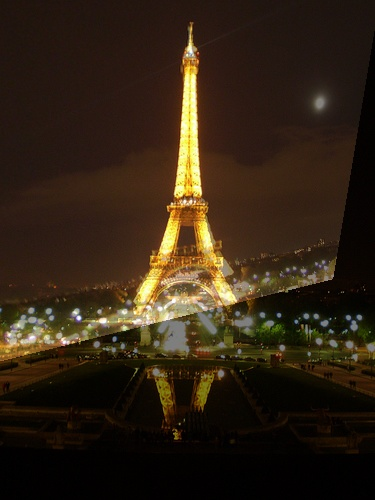
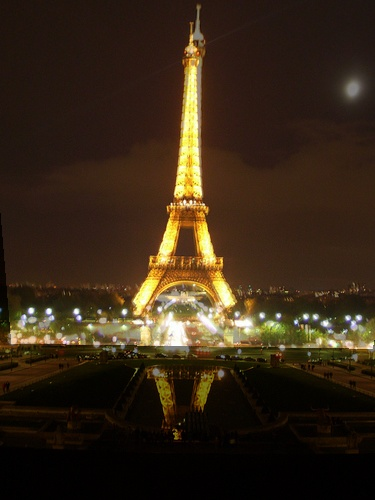
Possibly the final one

Changed region(s): [[0.0, 0.0, 1.0, 0.72], [0.8213, 0.18, 0.88, 0.24]]

diff --git a/a2.py b/a2.py
@@ -29,25 +29,9 @@
 ################################################################################
 
 ################################################################################
-# To fix Part 1
-# - match to second best match
-# - record the points that are the match
-# - fix the inclusion of the directory where the images are, or ask Piazza Q
-# - adjust strength of link based on how good a match
-# - add voting somehow for matches
-# - Take the best x number (50?) best matches
-# - Add file output
-# - Add dynamic programming to speed up?
-# - For write-up -- how do we speed it up?
-# - functionize part 1 into parts
-#
-# To fix Part 2
-# - create better boudning boxes for part 2, 3, and perhaps 4
-# - Speed up bilineal by using a dictionary?  (Tried it, was acutally slower)
-# - refactor code to reduce redundancies between each
-#
+# To Do List
+# - Done.
 ################################################################################
-
 
 # import libraries
 import sys
@@ -61,7 +45,6 @@ import imageio
 from math import atan, cos, sin
 from pprint import pprint
 import profile
-# from numpy.linalg.LinAlgError import LinAlgError
 
 part = sys.argv[1]
 
@@ -241,6 +224,7 @@ def matching_test_image(matches_list,img1,img2):
 def get_points_from_matches(sample):
     return [[[pt1.pt[0],pt1.pt[1]],[pt2.pt[0],pt2.pt[1]]] for pt1,pt2,distance in sample]
 
+# checks if image is an inlier during ransac
 def inlier_check(threshold, tmatrix,x_o,y_o,xp_o,yp_o):
     xp_c, yp_c = forwardwarp_point(tmatrix, x_o,y_o)
     if abs(xp_c -xp_o) <= threshold and abs(yp_c-yp_o) <= threshold:
@@ -299,6 +283,7 @@ def ransac(matches_list):
         
     return best_tmatrix, new_matches_list
 
+# final output
 def print_output(groupings, output_file):
     output_txt= open(output_file,"w+")
     print(groupings.items())

diff --git a/readme.md b/readme.md
@@ -124,22 +124,51 @@ First, I set some initial conditions.  The default for a transformation matrix w
 
 More importantly, I set my pixel threshold to be just three pixels.  This comes into play with counting inliers.   I would determine my inliers by picking four matches at random, and compute the transform matrix.  Then, I applied the transform matrix to the x,y in every match.  Which produced an x'o,y'o.  If those x'o,y'o were within three pixels in of the x',y' that were in the calculated matches, then that match was considered an inlier.  Otherwise, it was an outlier.
 
-I kept track of how many inliers each matrix had, and kept the highest number of inliers as I repeated this process. I choose to do 500 iterations. Which is most cases, might be excessive, but not all of them.  Since, I was picking 4 points at a random.  For just 20 points, that would mean 116280 different combinations.  Way more than I could test in a reasonable amount of time.  Since RANSAC only works if the majority are inliers, than it meant that I had a pretty good chance of landing on an inlier heavy matrix.  I found 500 to work almost all the time, if an image would be matched up.  It took only about a quarter of second for the harder cases.
-
-After 500 iterations, I passed the matrix and a revised matches list back to the program.  Earlier, I highlighted the before and after for the eiffel tower.
+I kept track of how many inliers each matrix had, and kept the highest number of inliers as I repeated this process. I choose to do 500 iterations. Which is most cases, might be excessive, but not all of them.  Since, I was picking 4 points at a random.  For just 20 points, that would mean 116280 different combinations.  Way more than I could test in a reasonable amount of time.  Since RANSAC only works if the majority are inliers, than it meant that I had a pretty good chance of landing on an inlier heavy matrix.  I found 500 to work almost all the time, if an image would be matched up.  It took between one-tenth and a quarter of second for the images with many matches.  When I passed this to part 1, that would mean that it would take about 1500 seconds to do all of the images.  Which was in the realm of responsible.
 
 ## Results
-I think it's interesting that there are definitely still other items that would have to be corrected for, such as the fact that in one image, the table seems to be much larger than the other ones, so you end up with that table-in-table effect.
+After 500 iterations, I passed the matrix and a revised matches list back to the program.  Earlier, I highlighted the before and after for the eiffel tower.  Here is what the combined image looks like, combining eiffel_18 and eiffel_19.
+
+![Eiffel is so pretty](https://github.iu.edu/cs-b657-sp2019/derrick-a2/blob/master/part3_output_eiffel.jpg)
+
+Here is what combining colosseum_4 and colosseum_5 look like:
+
+![Colosseum combination](https://github.iu.edu/cs-b657-sp2019/derrick-a2/blob/master/part3_output_colosseum.jpg)
+
+You can almost feel like you're in the arena. And, of course, our books from part2 have finally been reunited:
+
+![combined books](https://github.iu.edu/cs-b657-sp2019/derrick-a2/blob/master/part3_output_book2.jpg)
+
+Not bad! I think it's interesting that there are definitely still other items that would have to be corrected for, such as the fact that in one image, the table seems to be much larger than the other ones, so you end up with that table-in-table effect.
+
+Now, one thing that did come up is what happens when there are not enough points for a good transformation matrix.  Which is sadly what happened in the case of the Big Ben merger.  While before I noted it was able to line up the face of the clock, that was not enough for it to figure out how it was orientated.  The merger resulted in this psychedelic image:
+
+![sorry bigben](https://github.iu.edu/cs-b657-sp2019/derrick-a2/blob/master/part3_output_bigben.jpg)
+
+One of the things that was most interesting, was that I realized that my results here depends on a number of hand-tuned parameters:
+
+- Number of features detected
+- Threshold distance during matching
+- Use of Non-Maximal Suppression
+- RANSAC Pixel Threshold
+- Number of RANSAC iterations
+
+I observed a great amount of variation in my results as I would play around them, until I got to the ones I seem to be able to consistently get, at least with this dataset.
 
 ## Recommendations for Improving Part 3
 
 ### Image size
-As I mentioned earlier, trying to get the right size of the image left a few things in limbo.  And depending on which two images were being merged, there could have been some edges that get cut off.
+As I mentioned earlier, trying to get the right size of the image left a few things in limbo.  And depending on which two images were being merged, there could have been some edges that get cut off.  There is definite room for improvement here.
 
+### Speed
+If I could make this work faster, then it we could consider more varations of the four points, until the perfect.  Also, I could increase the number of matches or a wider theshold distance.
+
+### Modified RANSAC - Merge with A* ?
+This was my first experience with RANSAC, and I really liked how intuitive it was.  I think it could be further modified, where instead of picking four new matches each time, I only changed one point at a time, and used inliers as my heurestic.  This would be something like an A-star algorithm, where we keep looking for the best transformation matrix based on some heurestic and the path that has been taken.
 
 # Errata
 I learned so much about python and numpy data structures.  My favorite error is when I was trying to merge the images and average out the results.   As it turns out, if you attempt to add two 8-bit numpy integers, you get non-sensical answers, which result in merged images like the following:
 
 ![oops](https://github.iu.edu/cs-b657-sp2019/derrick-a2/blob/master/part3_book_test_bad_colors.jpg)
 
-
+Plus, I ran into all sorts of fun errors doing the matrix math.  It's amazing how much AI and computer vision involve the knowledge of so many different fields.
